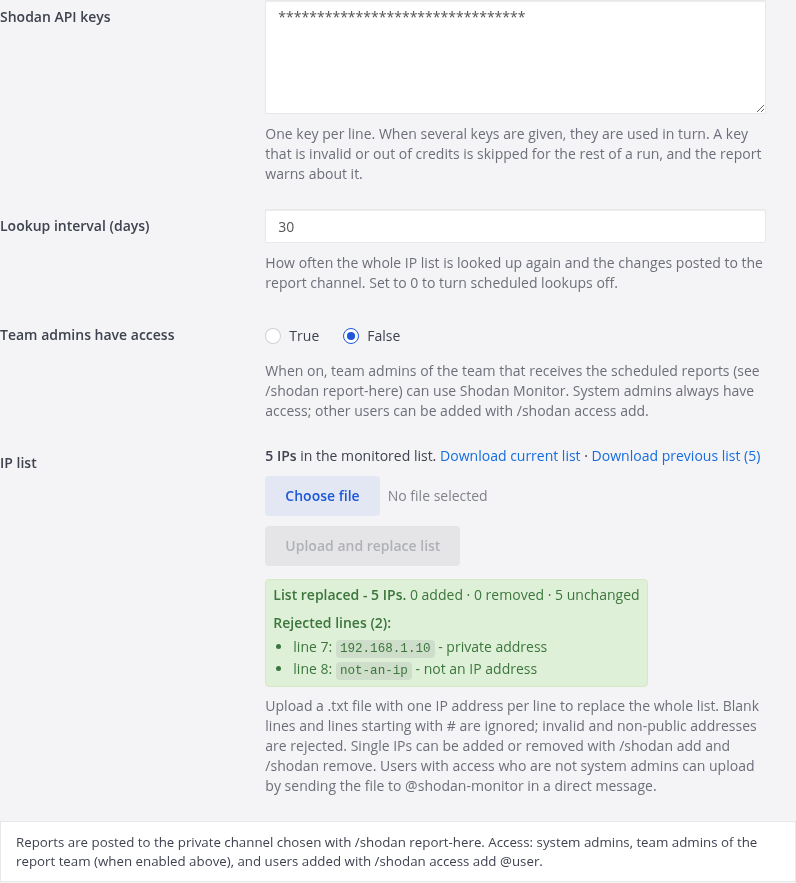
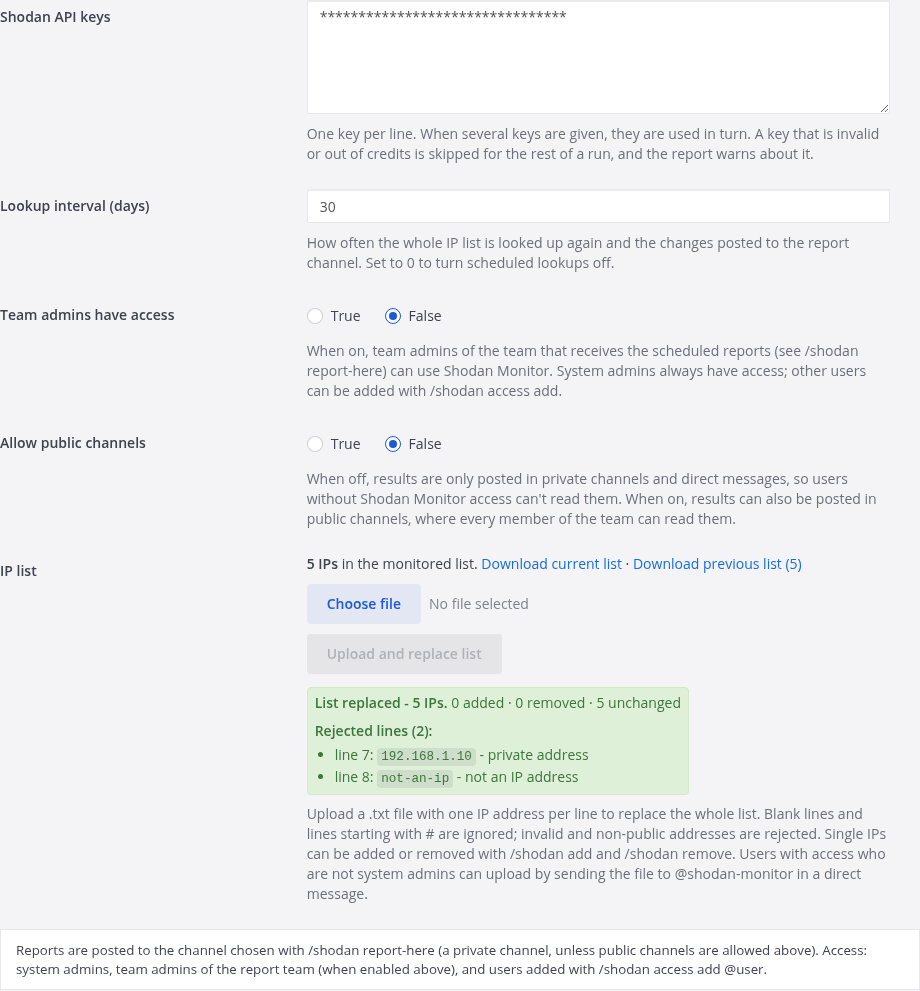
Add "Allow public channels" setting and release 1.1.0
Results stay limited to private channels and direct messages by default.
When the new setting is on, lookups, active scans and scheduled reports can
also be posted in public channels. /shodan status shows the current mode,
and report-here warns when the report channel is public.

diff --git a/server/command.go b/server/command.go
@@ -78,7 +78,7 @@ func (p *Plugin) ExecuteCommand(_ *plugin.Context, args *model.CommandArgs) (*mo
 
 	switch sub {
 	case "help":
-		return respond(helpText(p.isSysAdmin(args.UserId))), nil
+		return respond(p.helpText(p.isSysAdmin(args.UserId))), nil
 	case "status":
 		return respond(p.statusText()), nil
 	case "list":
@@ -97,11 +97,15 @@ func (p *Plugin) ExecuteCommand(_ *plugin.Context, args *model.CommandArgs) (*mo
 		if !p.isSysAdmin(args.UserId) {
 			return respond("Only system admins can choose the report channel."), nil
 		}
-		if p.isPublicChannel(args.ChannelId) {
-			return respond("The report channel must be private, so users without Shodan Monitor access can't read the reports. Run this in a private channel."), nil
+		if !p.canPostResults(args.ChannelId) {
+			return respond("The report channel must be private, so users without Shodan Monitor access can't read the reports. " +
+				"Run this in a private channel, or turn on \"Allow public channels\" in the plugin settings."), nil
 		}
 		if err := p.setReportChannel(args.ChannelId); err != nil {
 			return respond("Could not save the report channel: " + err.Error()), nil
+		}
+		if ch, appErr := p.API.GetChannel(args.ChannelId); appErr == nil && ch.Type == model.ChannelTypeOpen {
+			return respond("Scheduled reports will be posted in this channel. **Note:** this is a public channel, so every member of the team can read the reports."), nil
 		}
 		return respond("Scheduled reports will be posted in this channel."), nil
 	case "access":
@@ -113,7 +117,7 @@ func (p *Plugin) ExecuteCommand(_ *plugin.Context, args *model.CommandArgs) (*mo
 	return respond(fmt.Sprintf("Unknown option `%s`. Run `/shodan help` for the list of options.", sub)), nil
 }
 
-func helpText(admin bool) string {
+func (p *Plugin) helpText(admin bool) string {
 	s := "### " + productName() + " - usage\n" +
 		"| Command | What it does |\n|---|---|\n" +
 		"| `/shodan status` | List size, schedule, report channel, API key status |\n" +
@@ -131,8 +135,10 @@ func helpText(admin bool) string {
 			"| `/shodan access remove @user` | Remove a user's access *(system admins)* |\n" +
 			"| `/shodan access list` | Users given access manually *(system admins)* |\n"
 	}
-	s += "\nEvery N days (System Console → Plugins → Shodan Monitor) the whole list is looked up again and only the IPs that changed are posted to the report channel, with the full `results.json` attached. " +
-		"Results are only posted in private channels and direct messages."
+	s += "\nEvery N days (System Console → Plugins → Shodan Monitor) the whole list is looked up again and only the IPs that changed are posted to the report channel, with the full `results.json` attached."
+	if !p.getConfiguration().AllowPublicChannels {
+		s += " Results are only posted in private channels and direct messages."
+	}
 	return s
 }
 
@@ -199,7 +205,7 @@ func (p *Plugin) lookupCommand(args *model.CommandArgs, rest []string) string {
 	if len(p.getConfiguration().apiKeys()) == 0 {
 		return "No Shodan API key is configured. A system admin can add keys in **System Console → Plugins → Shodan Monitor**."
 	}
-	if p.isPublicChannel(args.ChannelId) {
+	if !p.canPostResults(args.ChannelId) {
 		return publicChannelText
 	}
 	target := "all"
@@ -238,7 +244,7 @@ func (p *Plugin) scanCommand(args *model.CommandArgs, rest []string) string {
 	if len(p.getConfiguration().apiKeys()) == 0 {
 		return "No Shodan API key is configured. A system admin can add keys in **System Console → Plugins → Shodan Monitor**."
 	}
-	if p.isPublicChannel(args.ChannelId) {
+	if !p.canPostResults(args.ChannelId) {
 		return publicChannelText
 	}
 	req := runRequest{Kind: runActive, ChannelID: args.ChannelId, UserID: args.UserId}
@@ -365,7 +371,7 @@ func (p *Plugin) statusText() string {
 	fmt.Fprintf(&b, "- **IP list:** %s\n", plural(len(ips), "IP", "IPs"))
 
 	if ch := p.getReportChannel(); ch == "" {
-		b.WriteString("- **Report channel:** not set - run `/shodan report-here` in the private channel that should get the reports\n")
+		b.WriteString("- **Report channel:** not set - run `/shodan report-here` in the channel that should get the reports\n")
 	} else if c, appErr := p.API.GetChannel(ch); appErr == nil {
 		name := c.DisplayName
 		if name == "" {
@@ -376,6 +382,11 @@ func (p *Plugin) statusText() string {
 		b.WriteString("- **Report channel:** the saved channel no longer exists - run `/shodan report-here` again\n")
 	}
 
+	if cfg.AllowPublicChannels {
+		b.WriteString("- **Public channels:** allowed (results posted there are visible to every member of the team)\n")
+	} else {
+		b.WriteString("- **Public channels:** not allowed - results are only posted in private channels and direct messages\n")
+	}
 	if cfg.LookupIntervalDays > 0 {
 		fmt.Fprintf(&b, "- **Lookup interval:** every %s\n", plural(cfg.LookupIntervalDays, "day", "days"))
 	} else {

diff --git a/server/util.go b/server/util.go
@@ -122,18 +122,24 @@ func (p *Plugin) reportTeam() *model.Team {
 	return team
 }
 
-// isPublicChannel: results are never posted in public channels, so users
-// without Shodan Monitor access can't read them.
-func (p *Plugin) isPublicChannel(channelID string) bool {
+// canPostResults: results go to private channels and direct/group messages,
+// and to public channels only when "Allow public channels" is on. A channel
+// that can't be found is never posted to.
+func (p *Plugin) canPostResults(channelID string) bool {
 	ch, appErr := p.API.GetChannel(channelID)
 	if appErr != nil {
-		return true // unknown: treat as public, i.e. don't post
+		return false
 	}
-	return ch.Type == model.ChannelTypeOpen
+	return canPostIn(ch, p.getConfiguration())
+}
+
+func canPostIn(ch *model.Channel, cfg *configuration) bool {
+	return ch.Type != model.ChannelTypeOpen || cfg.AllowPublicChannels
 }
 
 const publicChannelText = "Results are only posted in private channels and direct messages, so users without " +
-	"Shodan Monitor access can't see them. Run this in a private channel or in a direct message with @shodan-monitor."
+	"Shodan Monitor access can't see them. Run this in a private channel or in a direct message with @shodan-monitor, " +
+	"or ask a system admin to turn on \"Allow public channels\" in the plugin settings."
 
 func (p *Plugin) username(userID string) string {
 	if userID == "" {

diff --git a/server/util_test.go b/server/util_test.go
@@ -3,6 +3,8 @@ package main
 import (
 	"strings"
 	"testing"
+
+	"github.com/mattermost/mattermost/server/public/model"
 )
 
 func TestMdNeutralisesMentionsAndMarkup(t *testing.T) {
@@ -26,5 +28,27 @@ func TestMdNeutralisesMentionsAndMarkup(t *testing.T) {
 	}
 	if strings.Contains(md("line1\nline2\r"), "\n") {
 		t.Error("md kept a newline")
+	}
+}
+
+func TestCanPostIn(t *testing.T) {
+	off := &configuration{}
+	on := &configuration{AllowPublicChannels: true}
+	cases := []struct {
+		chType model.ChannelType
+		cfg    *configuration
+		want   bool
+	}{
+		{model.ChannelTypePrivate, off, true},
+		{model.ChannelTypeDirect, off, true},
+		{model.ChannelTypeGroup, off, true},
+		{model.ChannelTypeOpen, off, false},
+		{model.ChannelTypeOpen, on, true},
+		{model.ChannelTypePrivate, on, true},
+	}
+	for _, c := range cases {
+		if got := canPostIn(&model.Channel{Type: c.chType}, c.cfg); got != c.want {
+			t.Errorf("canPostIn(type %q, allowPublic=%v) = %v, want %v", c.chType, c.cfg.AllowPublicChannels, got, c.want)
+		}
 	}
 }

diff --git a/server/plugin.go b/server/plugin.go
@@ -170,10 +170,14 @@ func (p *Plugin) scheduleState() (string, bool) {
 	}
 	reportChannel := p.getReportChannel()
 	if reportChannel == "" {
-		return "no report channel - run /shodan report-here in the private channel that should get the reports", false
+		return "no report channel - run /shodan report-here in the channel that should get the reports", false
 	}
-	if p.isPublicChannel(reportChannel) {
-		return "the report channel is public (or no longer exists) - make it private, or run /shodan report-here in a private channel", false
+	ch, appErr := p.API.GetChannel(reportChannel)
+	if appErr != nil {
+		return "the report channel no longer exists - run /shodan report-here again", false
+	}
+	if !canPostIn(ch, cfg) {
+		return "the report channel is public and \"Allow public channels\" is off - make the channel private, turn the setting on, or run /shodan report-here in a private channel", false
 	}
 	ips, err := p.getIPList()
 	if err != nil {

diff --git a/server/run.go b/server/run.go
@@ -237,7 +237,7 @@ func (p *Plugin) lookupSingle(ctx context.Context, ip string, req runRequest) {
 		p.saveBaseline(ip, snap)
 	}
 
-	if p.isPublicChannel(req.ChannelID) {
+	if !p.canPostResults(req.ChannelID) {
 		p.ephemeral(req.UserID, req.ChannelID, publicChannelText)
 		return
 	}
@@ -281,8 +281,8 @@ func buildResultsJSON(o *runOutcome) ([]byte, error) {
 }
 
 func (p *Plugin) postRunReport(channelID string, o *runOutcome) {
-	if p.isPublicChannel(channelID) {
-		p.API.LogError("report not posted: the channel is public or no longer exists", "channel_id", channelID)
+	if !p.canPostResults(channelID) {
+		p.API.LogError("report not posted: the channel no longer exists, or it is public and public channels are not allowed", "channel_id", channelID)
 		return
 	}
 	msg, full, cut := renderRunReport(o)

diff --git a/server/configuration.go b/server/configuration.go
@@ -18,6 +18,9 @@ type configuration struct {
 	// TeamAdminAccess gives team admins of the report channel's team access.
 	TeamAdminAccess bool
 
+	// AllowPublicChannels lets results be posted in public channels too.
+	AllowPublicChannels bool
+
 	// The "IPList" setting is a custom System Console component; the list itself
 	// lives in the KV store, never in the configuration.
 }

diff --git a/README.md b/README.md
@@ -49,13 +49,16 @@ System Console > Plugins > Shodan Monitor:
 | Shodan API keys | | One per line |
 | Lookup interval (days) | 30 | `0` disables scheduled lookups |
 | Team admins have access | Off | Team admins of the team that receives the reports |
+| Allow public channels | Off | Also post results in public channels |
 | IP list | | Upload / download the list |
 
-Then run `/shodan report-here` in a **private** channel.
+Then run `/shodan report-here` in the channel that should get the reports. It must be private unless
+**Allow public channels** is on.
 
 ## Security
 
-- Results are posted only in private channels and direct messages.
+- By default, results are posted only in private channels and direct messages, so users without access
+  can't read them. **Allow public channels** changes this.
 - The HTTP API is limited to system admins and protected against CSRF by Mattermost.
 - Text coming from Shodan is escaped: it cannot add links, formatting or `@mentions` to posts.
 - API keys are never posted, logged or written to `results.json`.

diff --git a/CHANGELOG.md b/CHANGELOG.md
@@ -7,6 +7,14 @@ and this project adheres to [Semantic Versioning](https://semver.org/spec/v2.0.0
 
 ## [Unreleased]
 
+## [1.1.0] - 2026-11-11
+
+### Added
+
+- "Allow public channels" setting, off by default. When on, lookups, active scans and scheduled reports
+  can also be posted in public channels.
+- `/shodan status` shows whether public channels are allowed.
+
 ## [1.0.1] - 2026-11-11
 
 ### Security
